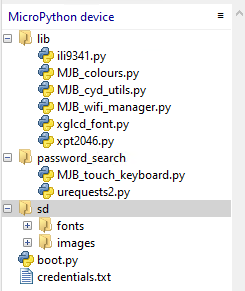
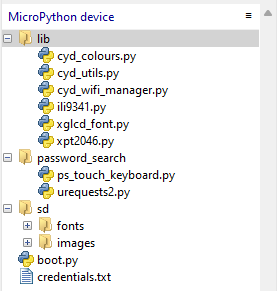
removed MJB from library names checked all demos working. ReadMe updated

Changed region(s): [[0.0, 0.0309, 0.9429, 0.9897], [0.9429, 0.0309, 1.0, 0.0619], [0.8857, 0.0309, 0.9143, 0.0619]]

diff --git a/demos/simple_tester.py b/demos/simple_tester.py
@@ -2,12 +2,12 @@ import math
 import os
 import sys
 
-# Simple test to check all functions provided by MJB_cyd_utils are working as expected
+# Simple test to check all functions provided by cyd_utils are working as expected
 # Shows how to use MJB_cyd utils
 # Examples based on:
 # https://github.com/witnessmenow/ESP32-Cheap-Yellow-Display/blob/main/Examples/Micropython/demo.py
-from MJB_colours import BLUE, GREEN, RED, WHITE
-from MJB_cyd_utils import get_cyd_utils
+from cyd_colours import BLUE, GREEN, RED, WHITE
+from cyd_utils import get_cyd_utils
 
 # get a reference to cyd_utils
 cyd_utils = get_cyd_utils()

diff --git a/demos/password_search/password_search.py b/demos/password_search/password_search.py
@@ -5,10 +5,10 @@ import sys
 from hashlib import sha1
 from time import sleep
 
-from MJB_colours import BLUE, GREEN, RED, WHITE
-from MJB_cyd_utils import get_cyd_utils
-from MJB_wifi_manager import WifiManager
-from password_search.MJB_touch_keyboard import TouchKeyboard
+from cyd_colours import BLUE, GREEN, RED, WHITE
+from cyd_utils import get_cyd_utils
+from cyd_wifi_manager import WifiManager
+from password_search.ps_touch_keyboard import TouchKeyboard
 from password_search.urequests2 import get
 from ubinascii import hexlify
 from xglcd_font import XglcdFont

diff --git a/demos/display_examples/bouncing_boxes.py b/demos/display_examples/bouncing_boxes.py
@@ -1,8 +1,8 @@
 import sys
 from random import random, seed
 
-from MJB_colours import AQUA, BLUE, FUCHSIA, GREEN, RED, YELLOW
-from MJB_cyd_utils import get_cyd_utils
+from cyd_colours import AQUA, BLUE, FUCHSIA, GREEN, RED, YELLOW
+from cyd_utils import get_cyd_utils
 from utime import sleep_us, ticks_cpu, ticks_diff, ticks_us
 
 # get a reference to cyd_utils

diff --git a/demos/display_examples/display_shapes.py b/demos/display_examples/display_shapes.py
@@ -1,6 +1,6 @@
 import sys
 
-from MJB_colours import (
+from cyd_colours import (
     AQUA,
     BLUE,
     BLUE_RIBBON,
@@ -13,7 +13,7 @@ from MJB_colours import (
     WHITE,
     YELLOW,
 )
-from MJB_cyd_utils import get_cyd_utils
+from cyd_utils import get_cyd_utils
 from utime import sleep
 
 # get a reference to cyd_utils

diff --git a/demos/font_examples/demo_fonts_v1.py b/demos/font_examples/demo_fonts_v1.py
@@ -1,6 +1,6 @@
 import sys
 
-from MJB_colours import (
+from cyd_colours import (
     AQUA,
     BLUE,
     DARKGREEN,
@@ -15,7 +15,7 @@ from MJB_colours import (
     WHITE,
     YELLOW,
 )
-from MJB_cyd_utils import get_cyd_utils
+from cyd_utils import get_cyd_utils
 from utime import sleep
 from xglcd_font import XglcdFont
 

diff --git a/demos/display_examples/coloured_squares.py b/demos/display_examples/coloured_squares.py
@@ -1,6 +1,6 @@
 import sys
 
-from MJB_colours import (
+from cyd_colours import (
     AQUA,
     BLUE,
     CHARTREUSE,
@@ -27,7 +27,7 @@ from MJB_colours import (
     WHITE,
     YELLOW,
 )
-from MJB_cyd_utils import get_cyd_utils
+from cyd_utils import get_cyd_utils
 from utime import sleep
 
 # get a reference to cyd_utils

diff --git a/demos/touch_examples/simple_touch.py b/demos/touch_examples/simple_touch.py
@@ -1,8 +1,8 @@
 import sys
 
 from machine import idle
-from MJB_colours import CYAN, PURPLE, WHITE
-from MJB_cyd_utils import get_cyd_utils
+from cyd_colours import CYAN, PURPLE, WHITE
+from cyd_utils import get_cyd_utils
 from utime import sleep, sleep_us, ticks_diff, ticks_us
 
 # get a reference to cyd_utils

diff --git a/demos/font_examples/demo_fonts_rotated_v1.py b/demos/font_examples/demo_fonts_rotated_v1.py
@@ -1,7 +1,7 @@
 import sys
 
-from MJB_colours import BLUE, FUCHSIA, GREEN, RED, YELLOW
-from MJB_cyd_utils import get_cyd_utils
+from cyd_colours import BLUE, FUCHSIA, GREEN, RED, YELLOW
+from cyd_utils import get_cyd_utils
 from utime import sleep
 from xglcd_font import XglcdFont
 

diff --git a/demos/font_examples/built_in_fonts_v1.py b/demos/font_examples/built_in_fonts_v1.py
@@ -1,7 +1,7 @@
 import sys
 
-from MJB_colours import AQUA, BLUE, FUCHSIA, GREEN, RED, WHITE, YELLOW
-from MJB_cyd_utils import get_cyd_utils
+from cyd_colours import AQUA, BLUE, FUCHSIA, GREEN, RED, WHITE, YELLOW
+from cyd_utils import get_cyd_utils
 from utime import sleep
 
 

diff --git a/demos/display_examples/colour_wheel.py b/demos/display_examples/colour_wheel.py
@@ -1,8 +1,8 @@
 import sys
 from math import cos, pi, sin
 
-from MJB_colours import rgb_to_rgb565
-from MJB_cyd_utils import get_cyd_utils
+from cyd_colours import rgb_to_rgb565
+from cyd_utils import get_cyd_utils
 from utime import sleep
 
 HALF_WIDTH = const(120)

diff --git a/demos/display_examples/colour_palette.py b/demos/display_examples/colour_palette.py
@@ -1,7 +1,7 @@
 import sys
 
-from MJB_colours import rgb_to_rgb565
-from MJB_cyd_utils import get_cyd_utils
+from cyd_colours import rgb_to_rgb565
+from cyd_utils import get_cyd_utils
 from utime import sleep
 
 # get a reference to cyd_utils

diff --git a/demos/display_examples/display_sprite.py b/demos/display_examples/display_sprite.py
@@ -1,6 +1,6 @@
 import sys
 
-from MJB_cyd_utils import get_cyd_utils
+from cyd_utils import get_cyd_utils
 from utime import sleep_us, ticks_diff, ticks_us
 
 # get a reference to cyd_utils
